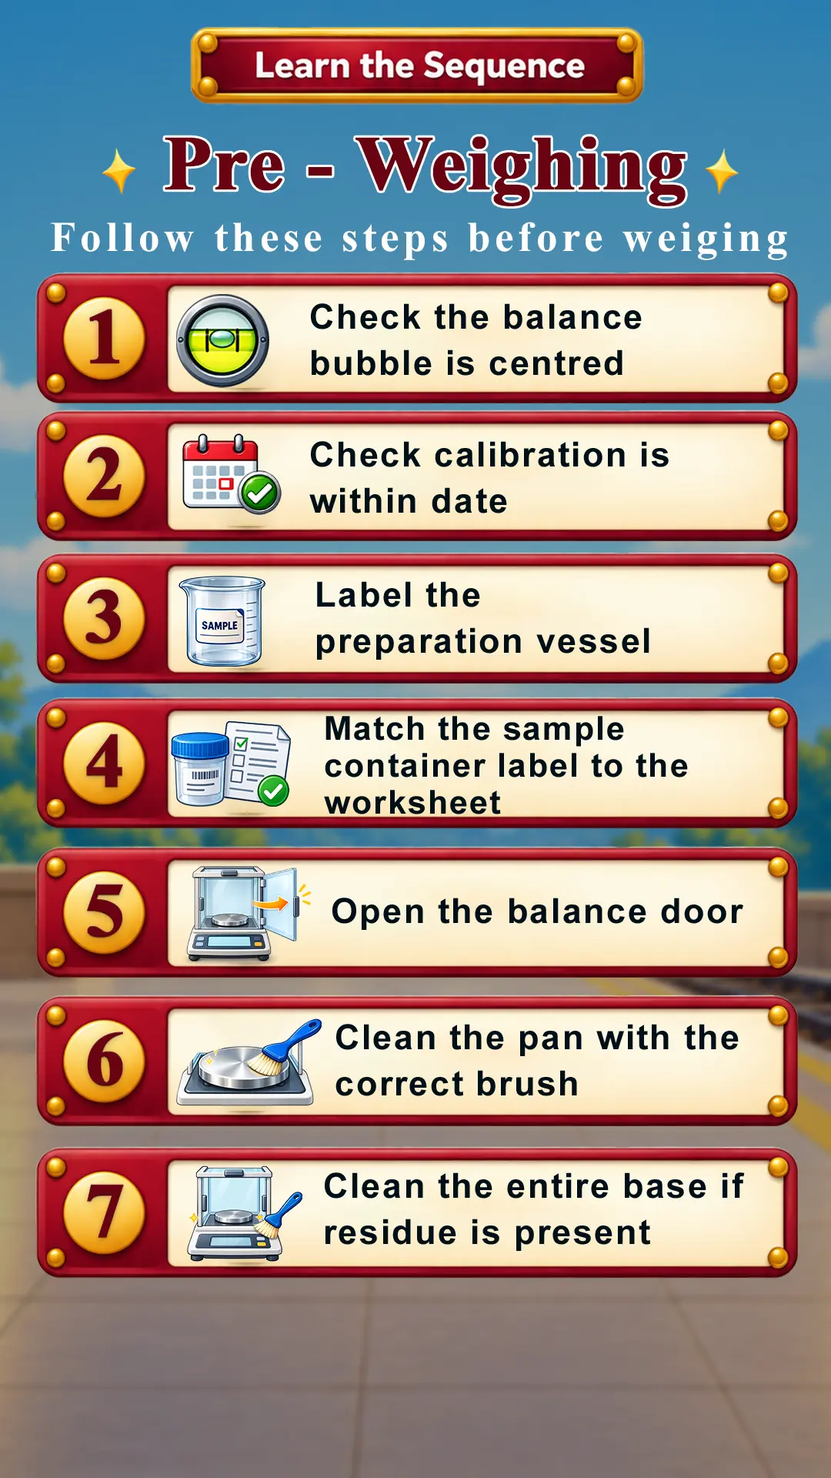
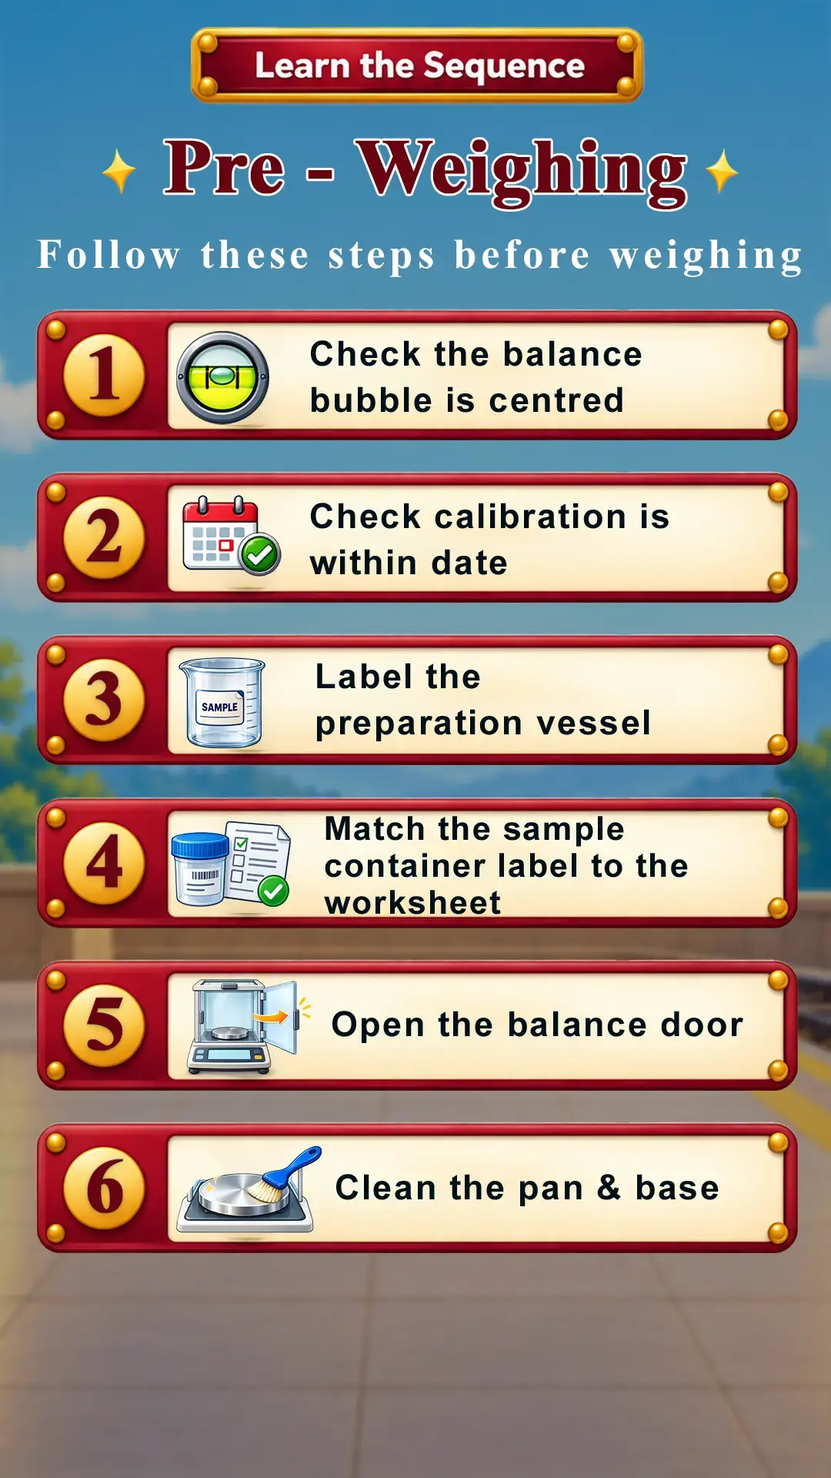
Use shared step pool for AB Express rounds

diff --git a/assets/ab-express-scripts/ab-express.js b/assets/ab-express-scripts/ab-express.js
@@ -6,7 +6,7 @@
   let screen = document.getElementById('screen');
   let progress;
   try { progress = Core.clean(JSON.parse(localStorage.getItem(C.storageKey))); } catch { progress = Core.clean(null); }
-  let page = '', mode = 'practice', bucket = 0, order = [], submitted = [], demoIndex = 0, learnIndex = 0;
+  let page = '', mode = 'practice', bucket = 0, practiceRun = null, roundSteps = [], order = [], submitted = [], demoIndex = 0, learnIndex = 0;
   let generation = 0, elapsed = 0, lastFrame = performance.now(), paused = false, selected = -1, drag = null;
   let roundTick = null, lastUrgentTick = -1;
   let result = null, finishedStreak = 0, storagePending = false;
@@ -203,7 +203,7 @@
     homeControl();
   }
   function practiceIntro() {
-    background('practiceIntro', 'page-8/page-8-bg.webp'); mode = 'practice'; bucket = 0;
+    background('practiceIntro', 'page-8/page-8-bg.webp'); mode = 'practice'; bucket = 0; practiceRun = Core.newRun();
     button('page-8/start-practising-button.webp', 'Start Practising', 'primary', arrange); homeControl();
   }
   function drawStreak(count, celebrate) {
@@ -231,14 +231,15 @@
     const play = button('page-15/play-button.webp', 'Play Challenge', 'primary', async () => {
       if (storagePending) return;
       if (!progress.run) await save({ ...progress, run: Core.newRun() });
-      bucket = progress.run.order[progress.run.index]; arrange();
+      bucket = progress.run.index; arrange();
     }); homeControl();
     if (celebrate) { play.disabled = true; confetti(); tween(C.timing.streak).then(active => { if (active) play.disabled = false; }); }
   }
   function arrange() {
     background('arrange', 'page-9/page-9-bg-with-text.webp'); elapsed = 0; selected = -1; lastUrgentTick = -1; screen.classList.toggle('challenge-arrange', mode === 'challenge');
-    order = Core.shuffle(C.buckets[bucket]);
-    if (order.every((v, i) => v === C.buckets[bucket][i])) [order[0], order[1]] = [order[1], order[0]];
+    roundSteps = (mode === 'practice' ? practiceRun : progress.run).order[bucket];
+    order = Core.shuffle(roundSteps);
+    if (order.every((v, i) => v === roundSteps[i])) [order[0], order[1]] = [order[1], order[0]];
     const list = document.createElement('ol'); list.className = 'sequence'; list.setAttribute('aria-label', 'Arrange the eight steps. Drag, or select a step then another position. Arrow keys move the focused step.'); screen.append(list);
     renderSteps();
     list.addEventListener('pointerdown', pointerDown); list.addEventListener('pointermove', pointerMove); list.addEventListener('pointerup', pointerUp); list.addEventListener('pointercancel', cancelDrag); list.addEventListener('lostpointercapture', cancelDrag);
@@ -253,7 +254,7 @@
     const previous = new Map(Array.from(list.children, row => [Number(row.dataset.id), { row, top: row.getBoundingClientRect().top }]));
     const scroll = list.scrollTop;
     list.replaceChildren();
-    order.forEach((id, i) => { const li = document.createElement('li'); li.className = `step${selected === i ? ' selected' : ''}${drag?.moved && drag.id === id ? ' dragging' : ''}`; li.dataset.id = String(id); li.tabIndex = 0; li.setAttribute('aria-label', `Position ${i + 1}. ${C.steps[id - 1]}`); const frame = document.createElement('div'); frame.className = 'compartment-frame'; const art = new Image(); art.src = asset('page-9/question panel.webp'); art.alt = ''; frame.append(art); const icon = new Image(); icon.src = asset(`common-ui-buttons/${String(id).padStart(2,'0')}.webp`); icon.alt = ''; const text = document.createElement('span'); text.textContent = C.steps[id - 1]; li.title = C.steps[id - 1]; li.append(frame, icon, text); list.append(li); });
+    order.forEach((id, i) => { const li = document.createElement('li'); li.className = `step${selected === i ? ' selected' : ''}${drag?.moved && drag.id === id ? ' dragging' : ''}`; li.dataset.id = String(id); li.tabIndex = 0; li.setAttribute('aria-label', `Position ${i + 1}. ${C.steps[id - 1]}`); const frame = document.createElement('div'); frame.className = 'compartment-frame'; const art = new Image(); art.src = asset('page-9/question panel.webp'); art.alt = ''; frame.append(art); const icon = new Image(); icon.src = asset(`common-ui-buttons/${String(C.stepIcons[id - 1]).padStart(2,'0')}.webp`); icon.alt = ''; const text = document.createElement('span'); text.textContent = C.steps[id - 1]; li.title = C.steps[id - 1]; li.append(frame, icon, text); list.append(li); });
     list.scrollTop = scroll;
     for (const row of list.children) {
       const old = previous.get(Number(row.dataset.id)); if (!old) continue;
@@ -291,13 +292,13 @@
     if (mode === 'challenge' && updateRoundClock() === 0) expired = true;
     if (drag && !expired) return;
     submitted = order.slice();
-    result = expired ? { correct: false, firstWrong: -1, checked: 0 } : Core.evaluate(bucket, submitted);
+    result = expired ? { correct: false, firstWrong: -1, checked: 0 } : Core.evaluate(roundSteps, submitted);
     background('checking', 'page-10/page-10-bg.webp');
     img('page-10/lets-check-your-sequence-pop-up.webp', 'art train-title');
     const train = document.createElement('div'); train.className = 'train-track';
     train.style.transform = `translateY(${screen.clientHeight * .75 + 4}px)`;
     const engine = new Image(); engine.src = asset('page-10/train-engine.webp'); engine.className = 'engine'; engine.alt = 'Train engine'; train.append(engine);
-    for (const id of submitted) { const car = document.createElement('div'); car.className = 'carriage'; const body = new Image(); body.src = asset('page-10/icon-carrying-train-compartment.webp'); body.className = 'body'; body.alt = ''; const icon = new Image(); icon.src = asset(`common-ui-buttons/${String(id).padStart(2,'0')}.webp`); icon.className = 'icon'; icon.alt = C.steps[id - 1]; car.append(body, icon); train.append(car); }
+    for (const id of submitted) { const car = document.createElement('div'); car.className = 'carriage'; const body = new Image(); body.src = asset('page-10/icon-carrying-train-compartment.webp'); body.className = 'body'; body.alt = ''; const icon = new Image(); icon.src = asset(`common-ui-buttons/${String(C.stepIcons[id - 1]).padStart(2,'0')}.webp`); icon.className = 'icon'; icon.alt = C.steps[id - 1]; car.append(body, icon); train.append(car); }
     const window = document.createElement('div'); window.className = 'train-window'; window.append(train); screen.append(window); img('page-10/tunnel-cropped.webp', 'art tunnel');
     if (!expired && !await tween(C.timing.intro)) return;
     // The engine starts below the viewport, pulling the same attached carriages
@@ -324,10 +325,10 @@
       if (mode === 'challenge') { finishedStreak = progress.run.index + 1; await save(Core.pass(progress)); }
       await answer.decode().catch(() => {});
       if (!await tween(Math.max(C.timing.feedback, C.timing.answerReveal + C.timing.answerRead))) return;
-      next(mode === 'practice' ? () => { if (bucket < C.buckets.length - 1) { bucket++; arrange(); } else home(); } : () => finishedStreak === 5 ? reward() : challengeIntro(true));
+      next(mode === 'practice' ? () => { if (bucket < 4) { bucket++; arrange(); } else home(); } : () => finishedStreak === 5 ? reward() : challengeIntro(true));
     } else {
       page = 'failure'; ABAudio.wrong(); screen.classList.add('crashed'); screen.querySelector('.train-title')?.remove();
-      if (mode === 'challenge') await save({ ...progress, run: Core.newRun(bucket) });
+      if (mode === 'challenge') await save({ ...progress, run: Core.newRun(roundSteps) });
       const impact = ABEffects.crash({ screen, train, failedIndex: result.firstWrong, tween, asset, settings: C.crash });
       if (!await tween(C.crash.titleDelay)) return;
       img('page-12/train-crashed.webp', 'art train-title');
@@ -359,12 +360,12 @@
     const grid = document.createElement('div'); grid.className = 'comparison';
     grid.setAttribute('role', 'region'); grid.setAttribute('aria-label', 'Your sequence and correct sequence');
     for (let i = 0; i < 8; i++) {
-      [submitted[i], C.buckets[bucket][i]].forEach((id, column) => {
+      [submitted[i], roundSteps[i]].forEach((id, column) => {
         const cell = document.createElement('div'); cell.className = 'compare-cell';
-        if (!column && submitted[i] !== C.buckets[bucket][i]) cell.classList.add('misplaced');
+        if (!column && submitted[i] !== roundSteps[i]) cell.classList.add('misplaced');
         cell.style.left = `${column ? 52.7 : 5.9}%`;
         cell.style.top = `${23.1 + i * 8.14}%`;
-        const icon = new Image(); icon.src = asset(`common-ui-buttons/${String(id).padStart(2,'0')}.webp`); icon.alt = '';
+        const icon = new Image(); icon.src = asset(`common-ui-buttons/${String(C.stepIcons[id - 1]).padStart(2,'0')}.webp`); icon.alt = '';
         const text = document.createElement('span'); text.textContent = C.steps[id - 1];
         cell.title = C.steps[id - 1];
         cell.setAttribute('aria-label', `${column ? 'Correct' : 'Your'} sequence, step ${i + 1}: ${C.steps[id - 1]}`);
@@ -372,7 +373,7 @@
       });
     }
     screen.append(grid); fitComparisonCopy();
-    button('common-ui-buttons/play-again-button.webp', 'Play Again', 'primary', () => { if (mode === 'challenge') bucket = progress.run.order[0]; arrange(); }); homeControl();
+    button('common-ui-buttons/play-again-button.webp', 'Play Again', 'primary', () => { if (mode === 'challenge') bucket = 0; arrange(); }); homeControl();
   }
   function reward() {
     background('reward', 'page-17/page-17-bg.webp');

diff --git a/assets/ab-express-scripts/ab-express-core.js b/assets/ab-express-scripts/ab-express-core.js
@@ -6,21 +6,39 @@
     for (let i = out.length - 1; i > 0; i--) { const j = Math.floor(random() * (i + 1)); [out[i], out[j]] = [out[j], out[i]]; }
     return out;
   }
-  function newRun(exclude = -1, random = Math.random) {
-    const order = shuffle([0,1,2,3,4], random);
-    if (order[0] === exclude) [order[0], order[1]] = [order[1], order[0]];
+  const key = steps => steps.join(',');
+  function validRound(steps) {
+    return Array.isArray(steps) && steps.length === 8 && steps.every((id, i) => Number.isInteger(id) && id >= 1 && id <= C.steps.length && (!i || id > steps[i - 1])) && steps.filter(id => id <= 3).length === 1;
+  }
+  function drawRound(excluded = [], random = Math.random) {
+    const blocked = new Set(excluded.map(key));
+    let steps = [1 + Math.floor(random() * 3), ...shuffle(Array.from({length:C.steps.length - 3}, (_, i) => i + 4), random).slice(0, 7)].sort((a,b) => a-b);
+    // Deterministic fallback also guarantees termination for a fixed test RNG.
+    while (blocked.has(key(steps))) {
+      const rest = steps.slice(1); let i = 6;
+      while (i >= 0 && rest[i] === C.steps.length - 6 + i) i--;
+      if (i < 0) steps = [steps[0] % 3 + 1,4,5,6,7,8,9,10];
+      else { rest[i]++; for(let j=i+1;j<7;j++) rest[j]=rest[j-1]+1; steps=[steps[0],...rest]; }
+    }
+    return steps;
+  }
+  function newRun(exclude = null, random = Math.random) {
+    const order = [];
+    for (let i=0;i<5;i++) order.push(drawRound([...order, ...(validRound(exclude) ? [exclude] : [])], random));
     return { order, index: 0 };
   }
-  function evaluate(bucket, answer) {
-    const correct = C.buckets[bucket];
-    if (!correct || !Array.isArray(answer) || answer.length !== 8 || new Set(answer).size !== 8 || answer.some(id => !correct.includes(id))) throw new Error('Invalid sequence');
+  function evaluate(correct, answer) {
+    if (!validRound(correct) || !Array.isArray(answer) || answer.length !== 8 || new Set(answer).size !== 8 || answer.some(id => !correct.includes(id))) throw new Error('Invalid sequence');
     const firstWrong = answer.findIndex((id, i) => id !== correct[i]);
     return { correct: firstWrong === -1, firstWrong, checked: firstWrong === -1 ? 8 : firstWrong + 1 };
   }
   function clean(value) {
     const p = { demoComplete: value?.demoComplete === true, stars: Number.isSafeInteger(value?.stars) && value.stars >= 0 ? value.stars : 0, run: null };
     const r = value?.run;
-    if (r && Array.isArray(r.order) && r.order.length === 5 && new Set(r.order).size === 5 && r.order.every(v => Number.isInteger(v) && v >= 0 && v < 5) && Number.isInteger(r.index) && r.index >= 0 && r.index < 5) p.run = { order: r.order.slice(), index: r.index };
+    if (r && Array.isArray(r.order) && r.order.length === 5 && Number.isInteger(r.index) && r.index >= 0 && r.index < 5) {
+      if (r.order.every(validRound) && new Set(r.order.map(key)).size === 5) p.run = {order:r.order.map(steps => steps.slice()),index:r.index};
+      else if (r.order.every(v => Number.isInteger(v) && v >= 0 && v < 5) && new Set(r.order).size === 5) p.run = {...newRun(),index:r.index};
+    }
     return p;
   }
   function pass(progress) {
@@ -30,6 +48,6 @@
     if (next.run.index === 5) { next.stars++; next.run = null; }
     return next;
   }
-  root.ABCore = { shuffle, newRun, evaluate, clean, pass };
+  root.ABCore = { shuffle, drawRound, validRound, newRun, evaluate, clean, pass };
   if (typeof module !== 'undefined') module.exports = root.ABCore;
 })(typeof window === 'undefined' ? globalThis : window);

diff --git a/assets/ab-express-scripts/ab-express-config.js b/assets/ab-express-scripts/ab-express-config.js
@@ -1,38 +1,31 @@
 (function (root) {
   'use strict';
   const config = {
-    version: '24', storageKey: 'ab-express-progress-v1',
+    version: '25', storageKey: 'ab-express-progress-v1',
     audio: { menu: 'audio/menu-bgm.aac', game: 'audio/gameplay-bgm.aac', wrong: 'audio/wrong-answer.aac', trainEntry: 'audio/train-entry.aac', correct: 'audio/correct-compartment.aac', whoosh: 'audio/rearrange.wav', trainEntryVolume: .95, correctVolume: .7, whooshVolume: .16, explosion: 'audio/explosion.mp3', explosionVolume: .65, menuVolume: .28, gameVolume: .28, wrongVolume: .55, buttonVolume: .5, tick: 'audio/timer-tick.wav', tickVolume: .32, crossfade: .85 },
     challengeRoundSeconds: 60,
     timing: { intro: 1300, trainEntry: 2000, compartment: 950, feedback: 1300, answerReveal: 650, answerRead: 1600, streak: 1400, reward: 1600 },
     crash: { duration: 2800, titleDelay: 650, shake: 9, sparks: 24, smokePuffs: 14, dim: .38 },
     steps: [
-      'Check the balance bubble is centred.',
-      'Check calibration is within date.',
-      'Label the preparation vessel.',
-      'Match the sample container label to the worksheet.',
-      'Open the balance door.',
-      'Clean the pan with the correct brush.',
-      'Clean the entire base if residue is present.',
-      'Use a clean & dry butter paper boat.',
-      'Centre the boat on the balance pan.',
-      'Tare the empty paper boat to zero.',
-      "Discard excess sample in the bin. Don't return it to the container.",
-      'Close the door for a stable reading & to prevent contamination.',
-      'Wait for a stable reading before recording.',
-      'Check net weight against the worksheet.',
-      'Calculate and record the actual sample weight.',
-      'Transfer the weighed sample to a dry preparation vessel.',
-      'Weigh the used butter paper to check sample left.',
-      'Record and print the gross weight.',
-      'Clean the entire pan and base with brush after weighing.',
-      'After weighing and cleaning, close the door to prevent contamination.',
-      'Throw the used butter paper in the bin.',
-      'Throw other waste and sample residue in the bin.',
-      'Leave the balance clean and ready for use.',
-      'Recheck the balance bubble is centred.'
-    ],
-    buckets: [[1,3,6,7,8,13,15,21], [2,4,5,8,9,10,12,13], [3,9,10,11,12,13,15,16], [8,13,15,16,17,18,21,22], [8,9,10,14,19,20,23,24]],
+      "Check the balance bubble is centred.",
+      "Check calibration is within date.",
+      "Label the preparation vessel.",
+      "Match the sample container label to the worksheet.",
+      "Open the balance door.",
+      "Clean the pan and base",
+      "Use a clean & dry butter paper boat.",
+      "Centre the boat on the balance pan.",
+      "Tare the empty paper boat to zero.",
+      "Discard excess sample in the bin.",
+      "Close the door for a stable reading.",
+      "Wait for a stable reading before recording.",
+      "Transfer the weighed sample to a dry preparation vessel.",
+      "Weigh the used butter paper to check sample left.",
+      "Clean the entire pan and base with brush after weighing.",
+      "Throw the used butter paper in the bin.",
+      "Throw other waste and sample residue in the bin."
+],
+    stepIcons: [1,2,3,4,5,6,8,9,10,11,12,13,16,17,19,21,22],
     asset(path) { return '../ab-express-assets/' + path.split('/').map(encodeURIComponent).join('/'); }
   };
   root.ABConfig = config;

diff --git a/assets/ab-express-scripts/ab-express.html b/assets/ab-express-scripts/ab-express.html
@@ -3,13 +3,13 @@
 <head>
   <meta charset="utf-8"><meta name="viewport" content="width=device-width, initial-scale=1, viewport-fit=cover">
   <meta name="theme-color" content="#193c4d"><title>AB Express</title>
-  <link rel="stylesheet" href="ab-express.css?v=24">
-  <script defer src="ab-express-config.js?v=24"></script>
-  <script defer src="ab-express-core.js?v=24"></script>
-  <script defer src="ab-express-assets.js?v=24"></script>
-  <script defer src="ab-express-effects.js?v=24"></script>
-  <script defer src="ab-express-audio.js?v=24"></script>
-  <script defer src="ab-express.js?v=24"></script>
+  <link rel="stylesheet" href="ab-express.css?v=25">
+  <script defer src="ab-express-config.js?v=25"></script>
+  <script defer src="ab-express-core.js?v=25"></script>
+  <script defer src="ab-express-assets.js?v=25"></script>
+  <script defer src="ab-express-effects.js?v=25"></script>
+  <script defer src="ab-express-audio.js?v=25"></script>
+  <script defer src="ab-express.js?v=25"></script>
 </head>
 <body>
   <main id="game" aria-label="AB Express"><div id="screen"></div><div id="particles" aria-hidden="true"></div><div id="notice" role="status" aria-live="polite"></div></main>

diff --git a/assets/ab-express-scripts/sw.js b/assets/ab-express-scripts/sw.js
@@ -1,6 +1,6 @@
 /* Only AB Express resources are owned by this worker. */
-const CACHE = 'ab-express-v24';
-const SHELL = ['ab-express.html','ab-express.css?v=24','ab-express-config.js?v=24','ab-express-core.js?v=24','ab-express-assets.js?v=24','ab-express-effects.js?v=24','ab-express-audio.js?v=24','ab-express.js?v=24'];
+const CACHE = 'ab-express-v25';
+const SHELL = ['ab-express.html','ab-express.css?v=25','ab-express-config.js?v=25','ab-express-core.js?v=25','ab-express-assets.js?v=25','ab-express-effects.js?v=25','ab-express-audio.js?v=25','ab-express.js?v=25'];
 self.addEventListener('install', event => event.waitUntil(caches.open(CACHE).then(cache => cache.addAll(SHELL)).then(() => self.skipWaiting())));
 self.addEventListener('activate', event => event.waitUntil(caches.keys().then(keys => Promise.all(keys.filter(key => key.startsWith('ab-express-') && key !== CACHE).map(key => caches.delete(key)))).then(() => self.clients.claim())));
 self.addEventListener('fetch', event => {

diff --git a/assets/ab-express-scripts/ab-express-assets.js b/assets/ab-express-scripts/ab-express-assets.js
@@ -261,19 +261,19 @@ window.ABAssets = [
   },
   {
     "path": "page-18/page-18-a.webp",
-    "bytes": 155324
+    "bytes": 108070
   },
   {
     "path": "page-18/page-18-b.webp",
-    "bytes": 177542
+    "bytes": 107882
   },
   {
     "path": "page-18/page-18-c.webp",
-    "bytes": 181554
+    "bytes": 107108
   },
   {
     "path": "page-2/page-2-bg.webp",
-    "bytes": 226798
+    "bytes": 189126
   },
   {
     "path": "page-3/page-3-bg.webp",

diff --git a/assets/ab-express-scripts/ab-express-game-details.md b/assets/ab-express-scripts/ab-express-game-details.md
@@ -121,3 +121,27 @@ No player bucket selection. Start Practising begins bucket 1, then successful Ne
 All bottom navigation uses a shared footer with consistent safe margins, gaps and vertical centres. Back/Home/Next use a horizontal row; practice/challenge/reward keep the larger primary action above Home. Comparison gives Play Again more width than Home. Challenge arrangement places the timer beside Start in the same footer. Single continuation buttons are centred.
 
 Button image transparency is cropped using recorded alpha bounds, then visible artwork is scaled proportionally into its hit area. Resize refits these faces without stretching the supplied artwork. Labels, client instructions, navigation destinations and feedback gates are unchanged.
+
+## Shared step pool - 4 November 2026 (supersedes fixed buckets)
+
+The approved revised 17-step list in config.steps replaces the fixed bucket definitions for gameplay. Each round selects eight unique steps, exactly one from the first three and seven from the remaining fourteen. Correct order follows the master list; presentation is shuffled. Five distinct selections form a practice/challenge run; individual steps may repeat between rounds. Practice retries the same selection until success, then Next advances, returning Home after five. Challenge retains 60 seconds, five consecutive successes, failure reset with a different selection, and saved streaks. Existing saved bucket-based runs migrate to fresh selections while retaining completed streaks, stars and demo status. Learning artwork remains unchanged by this runtime update.
+
+### Current approved master sequence
+
+1. Check the balance bubble is centred.
+2. Check calibration is within date.
+3. Label the preparation vessel.
+4. Match the sample container label to the worksheet.
+5. Open the balance door.
+6. Clean the pan and base
+7. Use a clean & dry butter paper boat.
+8. Centre the boat on the balance pan.
+9. Tare the empty paper boat to zero.
+10. Discard excess sample in the bin.
+11. Close the door for a stable reading.
+12. Wait for a stable reading before recording.
+13. Transfer the weighed sample to a dry preparation vessel.
+14. Weigh the used butter paper to check sample left.
+15. Clean the entire pan and base with brush after weighing.
+16. Throw the used butter paper in the bin.
+17. Throw other waste and sample residue in the bin.

diff --git a/assets/ab-express-scripts/ab-express-game-progress.md b/assets/ab-express-scripts/ab-express-game-progress.md
@@ -189,3 +189,10 @@
 - Replaced per-page button placement with a shared footer: even horizontal spacing for navigation; stacked primary/Home on intro and reward pages; weighted Play Again/Home on comparison; aligned timer/Start on challenge arrangement. Single continuation controls are centred.
 - Normalized transparent asset margins using alpha crop bounds and proportionate visible-art sizing. Buttons refit on viewport changes; no artwork distortion or client-copy changes. Existing actions and feedback gates preserved.
 - Edge and WebKit each passed the 161-case page/viewport audit. Reviewed learning, practice and comparison phone screenshots; dedicated challenge timer/urgency regression passed. Syntax and five core tests passed. Physical-device touch/visual review remains pending. Scoped cache/version v24.
+
+## 4 November 2026 - Shared pool replaces fixed buckets
+
+- Applied the user-approved 17-step wording. Every round draws eight unique steps: exactly one of the first three, plus seven of the remaining fourteen. Kept original matching icon assets via explicit icon mapping.
+- Practice retains five rounds, same-selection retries and Next advancement. Challenge retains timer, failure reset, five-success reward and saved streaks. Persist complete sampled selections; migrate old numbered-bucket saves without losing completed streaks/stars/demo completion. Distinct selections within each run; failed challenge selection excluded from its replacement run.
+- Updated regression tests and current rules/details. Scoped version v25. Regenerated asset byte manifest to match four already-modified user images; did not modify those images.
+- Syntax and five core tests passed, including 1,000 sample draws, selection invariants, fixed-RNG termination, validation and persistence. Edge and WebKit passed five-round practice/retry flow; Edge passed countdown, timeout, reset, pause and submission regression. Physical iPhone/Android testing remains pending. Learning artwork unchanged by this runtime update.

diff --git a/assets/ab-express-scripts/ab-express-game-rules.md b/assets/ab-express-scripts/ab-express-game-rules.md
@@ -20,3 +20,7 @@ These standards carry forward the user's Rocketier, My Carz and Solvent Master e
 13. Client-supplied instruction text must be displayed verbatim in every mode, including comparison. Do not shorten, paraphrase or substitute labels to improve layout. Adjust presentation only unless the user explicitly supplies approved replacement wording.
 
 14. Practice assigns buckets 1, 2, 3, 4, 5 in order, without a selector. Failure retries the same bucket; successful Next starts the following bucket. After bucket 5, Next returns Home.
+
+## Shared step pool - 4 November 2026 (supersedes fixed buckets)
+
+The approved revised 17-step list in config.steps replaces the fixed bucket definitions for gameplay. Each round selects eight unique steps, exactly one from the first three and seven from the remaining fourteen. Correct order follows the master list; presentation is shuffled. Five distinct selections form a practice/challenge run; individual steps may repeat between rounds. Practice retries the same selection until success, then Next advances, returning Home after five. Challenge retains 60 seconds, five consecutive successes, failure reset with a different selection, and saved streaks. Existing saved bucket-based runs migrate to fresh selections while retaining completed streaks, stars and demo status. Learning artwork remains unchanged by this runtime update.

diff --git a/assets/ab-express-scripts/README.md b/assets/ab-express-scripts/README.md
@@ -9,7 +9,7 @@ Portrait game; scripts and documents are isolated here. Media lives in assets/ab
 
 Open `ab-express.html`, or select the final card in the RC games gallery.
 
-- `ab-express-config.js`: canonical steps, bucket definitions, timing and asset paths.
+- `ab-express-config.js`: canonical shared step pool, icon mapping, timing and asset paths.
 - `ab-express-core.js`: independent sequence validation and challenge progress rules.
 - `ab-express.js`: screen flow, input, loading, persistence and train presentation.
 - `ab-express-audio.js`: decoded music mixer, crossfades, wrong-answer cue and synthesized button tones.
